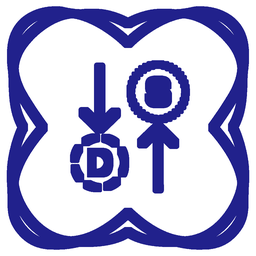
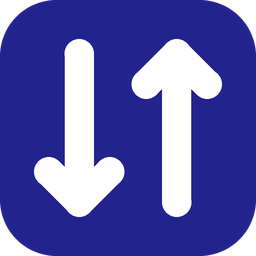
docs: 重绘网站图标，顶栏导航突出常用入口
- 图标改为品牌蓝圆角方块加白色上下箭头（logo 标志的简化版），16/32 像素下清晰可辨，
  顶栏 logo 同步更换
- 顶栏不再按目录顺序取前三个页面，改为固定显示快速入门、数据字典、接口检索、
  常见问题、更新日志，其余页面放入“更多”；数据字典下的子页面高亮“数据字典”

diff --git a/docs/_templates/ak-navbar.html b/docs/_templates/ak-navbar.html
@@ -1,0 +1,48 @@
+{#- 顶栏导航：主题默认按目录顺序取前几个页面，会把项目概览、uv 环境配置这类
+    低频页面放在最显眼的位置，因此这里固定列出最常用的入口。
+    每项为（页面名, 显示文字）；数据字典下的所有页面都高亮“数据字典”。 -#}
+{%- set main_links = [
+  ("tutorial", "快速入门"),
+  ("data/index", "数据字典"),
+  ("registry", "接口检索"),
+  ("answer", "常见问题"),
+  ("changelog", "更新日志"),
+] -%}
+{%- set more_links = [
+  ("installation", "安装指导"),
+  ("uv", "uv 环境配置"),
+  ("introduction", "项目概览"),
+  ("data_tips", "数据说明"),
+  ("indicator", "指标计算"),
+  ("demo", "策略示例"),
+  ("platform", "量化专题"),
+  ("deploy_http", "HTTP 部署"),
+  ("akdocker/akdocker", "Docker 部署"),
+  ("articles", "相关文章"),
+  ("contributing", "贡献指南"),
+  ("dependency", "依赖说明"),
+  ("special", "特别说明"),
+  ("trade", "实盘交易"),
+] -%}
+{%- macro is_active(target) -%}
+  {{- "current active" if pagename == target or (target == "data/index" and pagename.startswith("data/")) else "" -}}
+{%- endmacro -%}
+<nav>
+  <ul class="bd-navbar-elements navbar-nav">
+    {%- for target, title in main_links %}
+    <li class="nav-item {{ is_active(target) }}">
+      <a class="nav-link nav-internal" href="{{ pathto(target) }}">{{ title }}</a>
+    </li>
+    {%- endfor %}
+    <li class="nav-item dropdown">
+      <button class="btn dropdown-toggle nav-item" type="button" data-bs-toggle="dropdown" aria-expanded="false" aria-controls="ak-nav-more-links">更多</button>
+      <ul id="ak-nav-more-links" class="dropdown-menu">
+        {%- for target, title in more_links %}
+        <li class="{{ is_active(target) }}">
+          <a class="nav-link dropdown-item nav-internal" href="{{ pathto(target) }}">{{ title }}</a>
+        </li>
+        {%- endfor %}
+      </ul>
+    </li>
+  </ul>
+</nav>

diff --git a/docs/conf.py b/docs/conf.py
@@ -94,8 +94,8 @@ html_theme = "pydata_sphinx_theme"
 html_theme_options = {
     # 右侧页内目录默认只展开到二级标题，数据字典需要看到三级的接口分组
     "show_toc_level": 2,
-    # 页面标题都带 “AKShare ” 前缀，顶栏放 5 个链接会挤到第二行
-    "header_links_before_dropdown": 3,
+    # 顶栏改用 _templates/ak-navbar.html 固定列出常用入口，见该文件说明
+    "navbar_center": ["ak-navbar"],
     "icon_links": [
         {
             "name": "GitHub",
@@ -118,8 +118,8 @@ html_theme_options = {
     },
 }
 
-# 图标取自 assets/images/akshare_logo.jpg 左侧的方形标志，线条加粗后缩小，
-# 否则原图的细线在 16/32 像素下几乎看不见
+# 图标是 assets/images/akshare_logo.jpg 中一上一下两个箭头的简化版：品牌蓝圆角方块
+# 加白色粗箭头。原 logo 线条太细，直接缩小到 16/32 像素几乎看不清
 html_favicon = "_static/favicon.ico"
 html_static_path = ["_static"]
 html_css_files = ["custom.css"]
